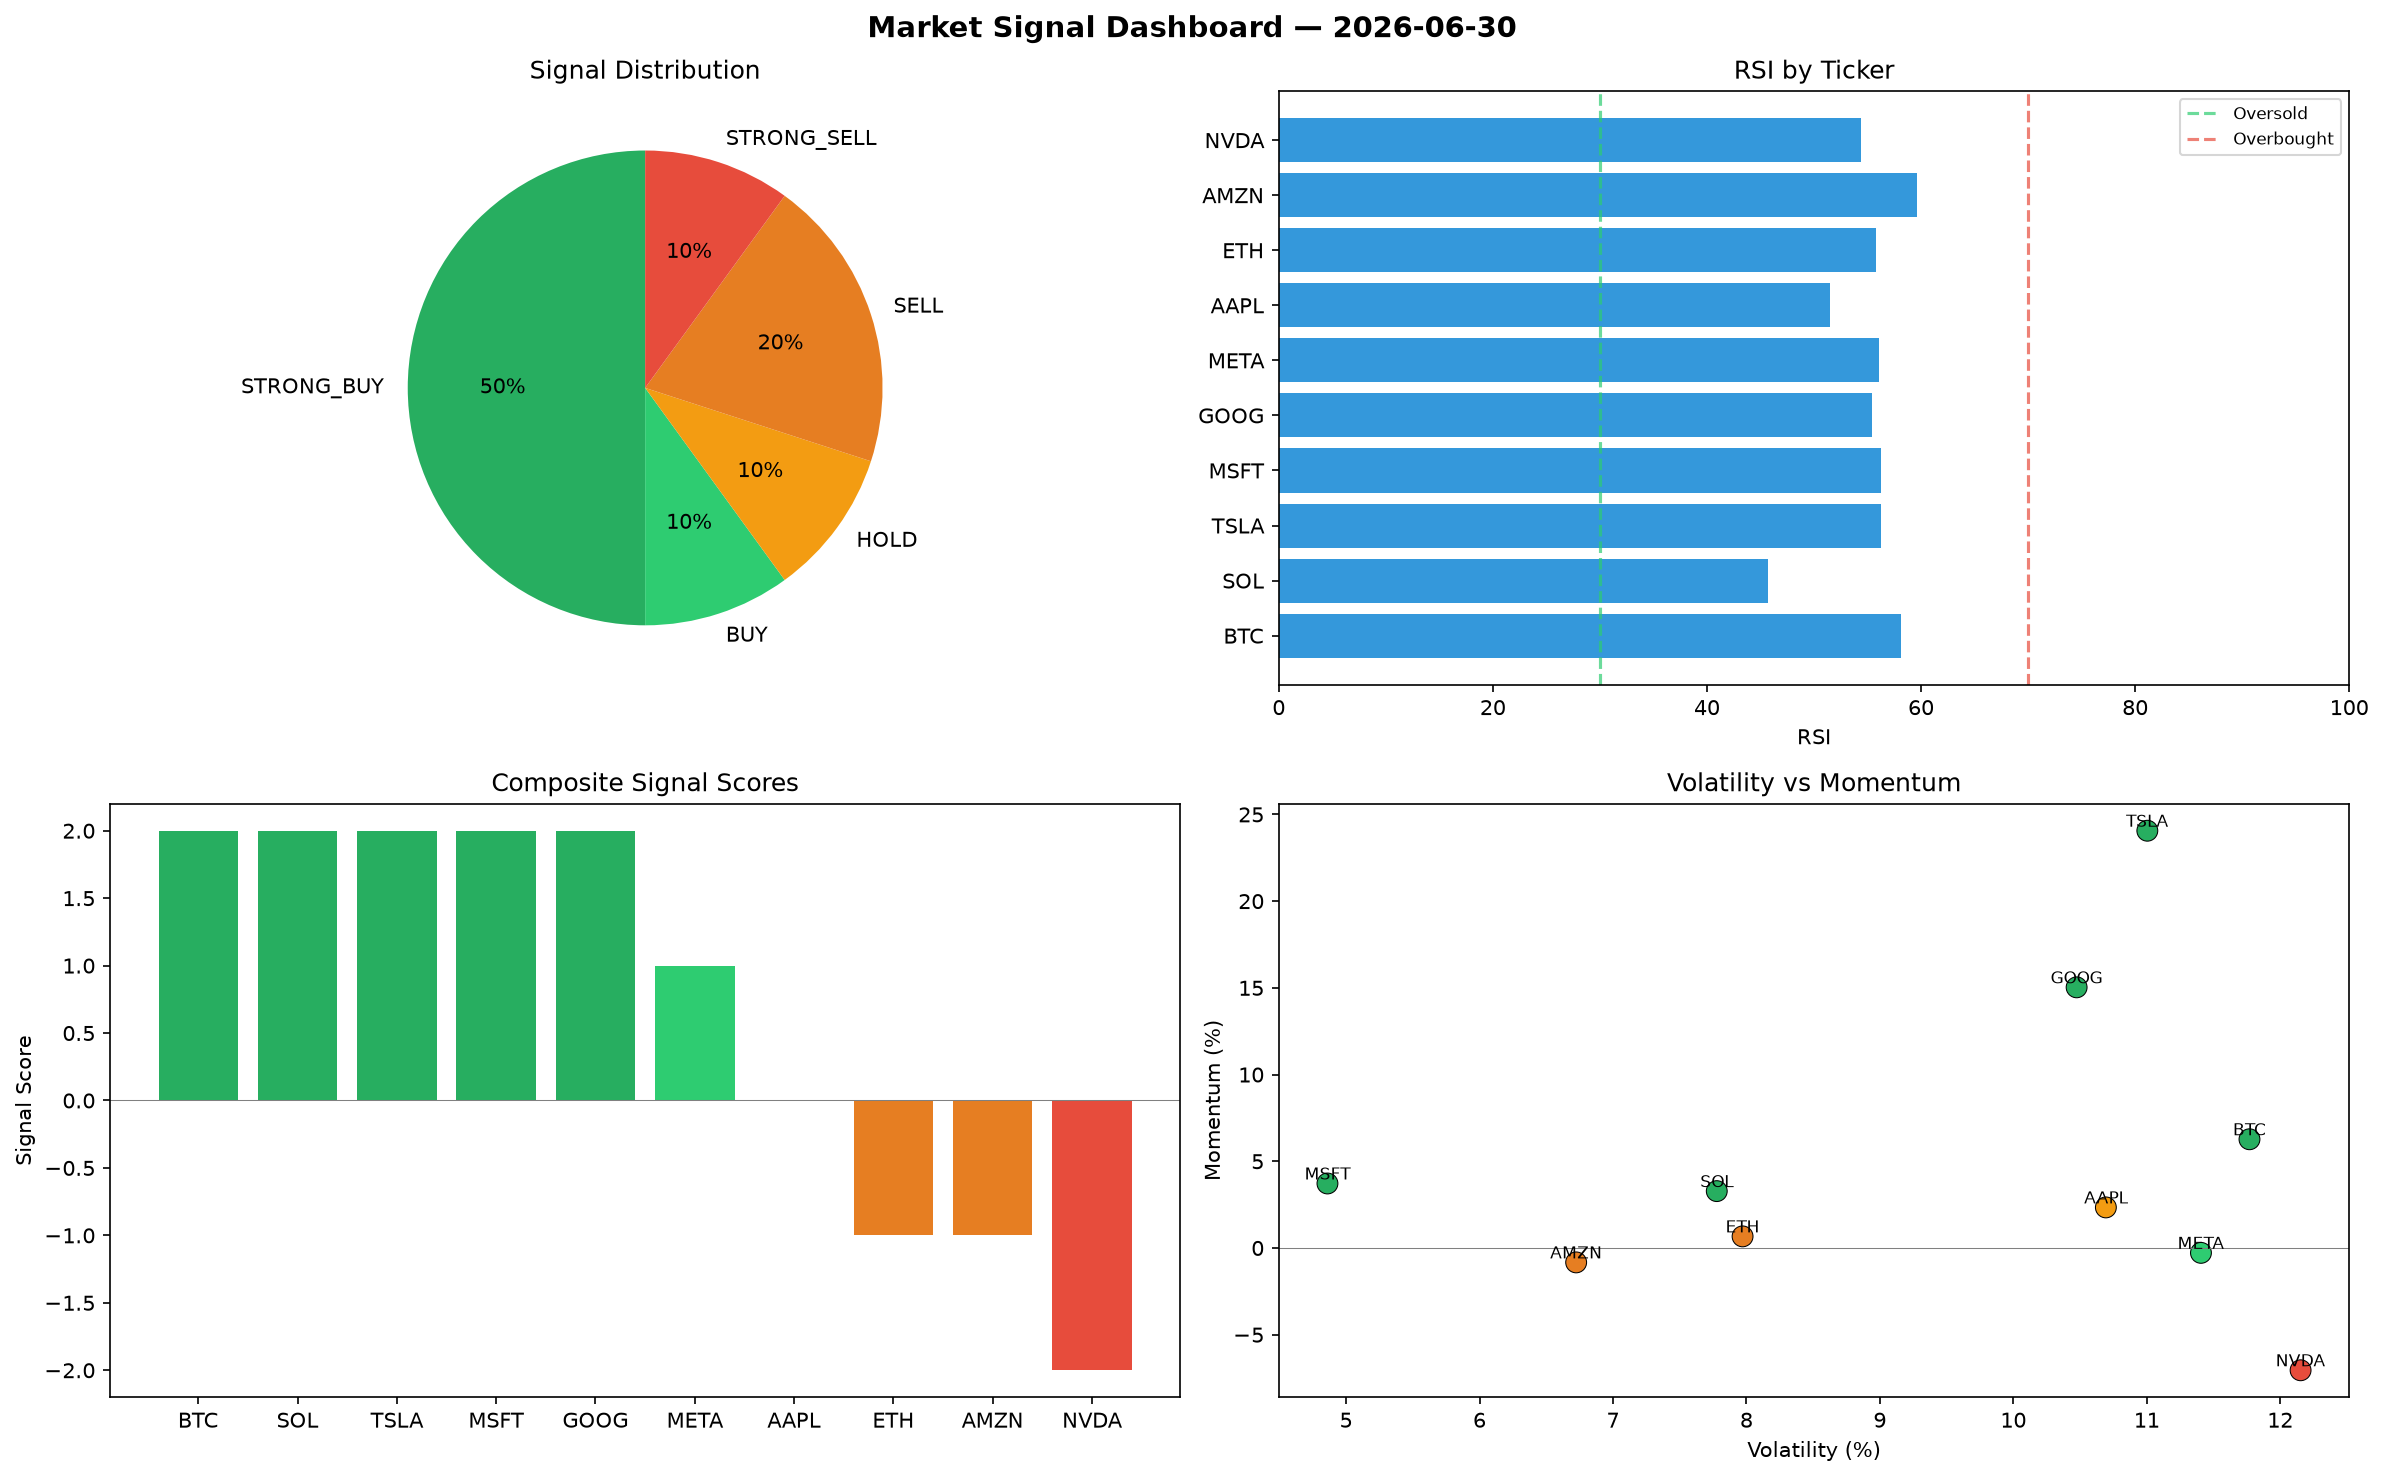
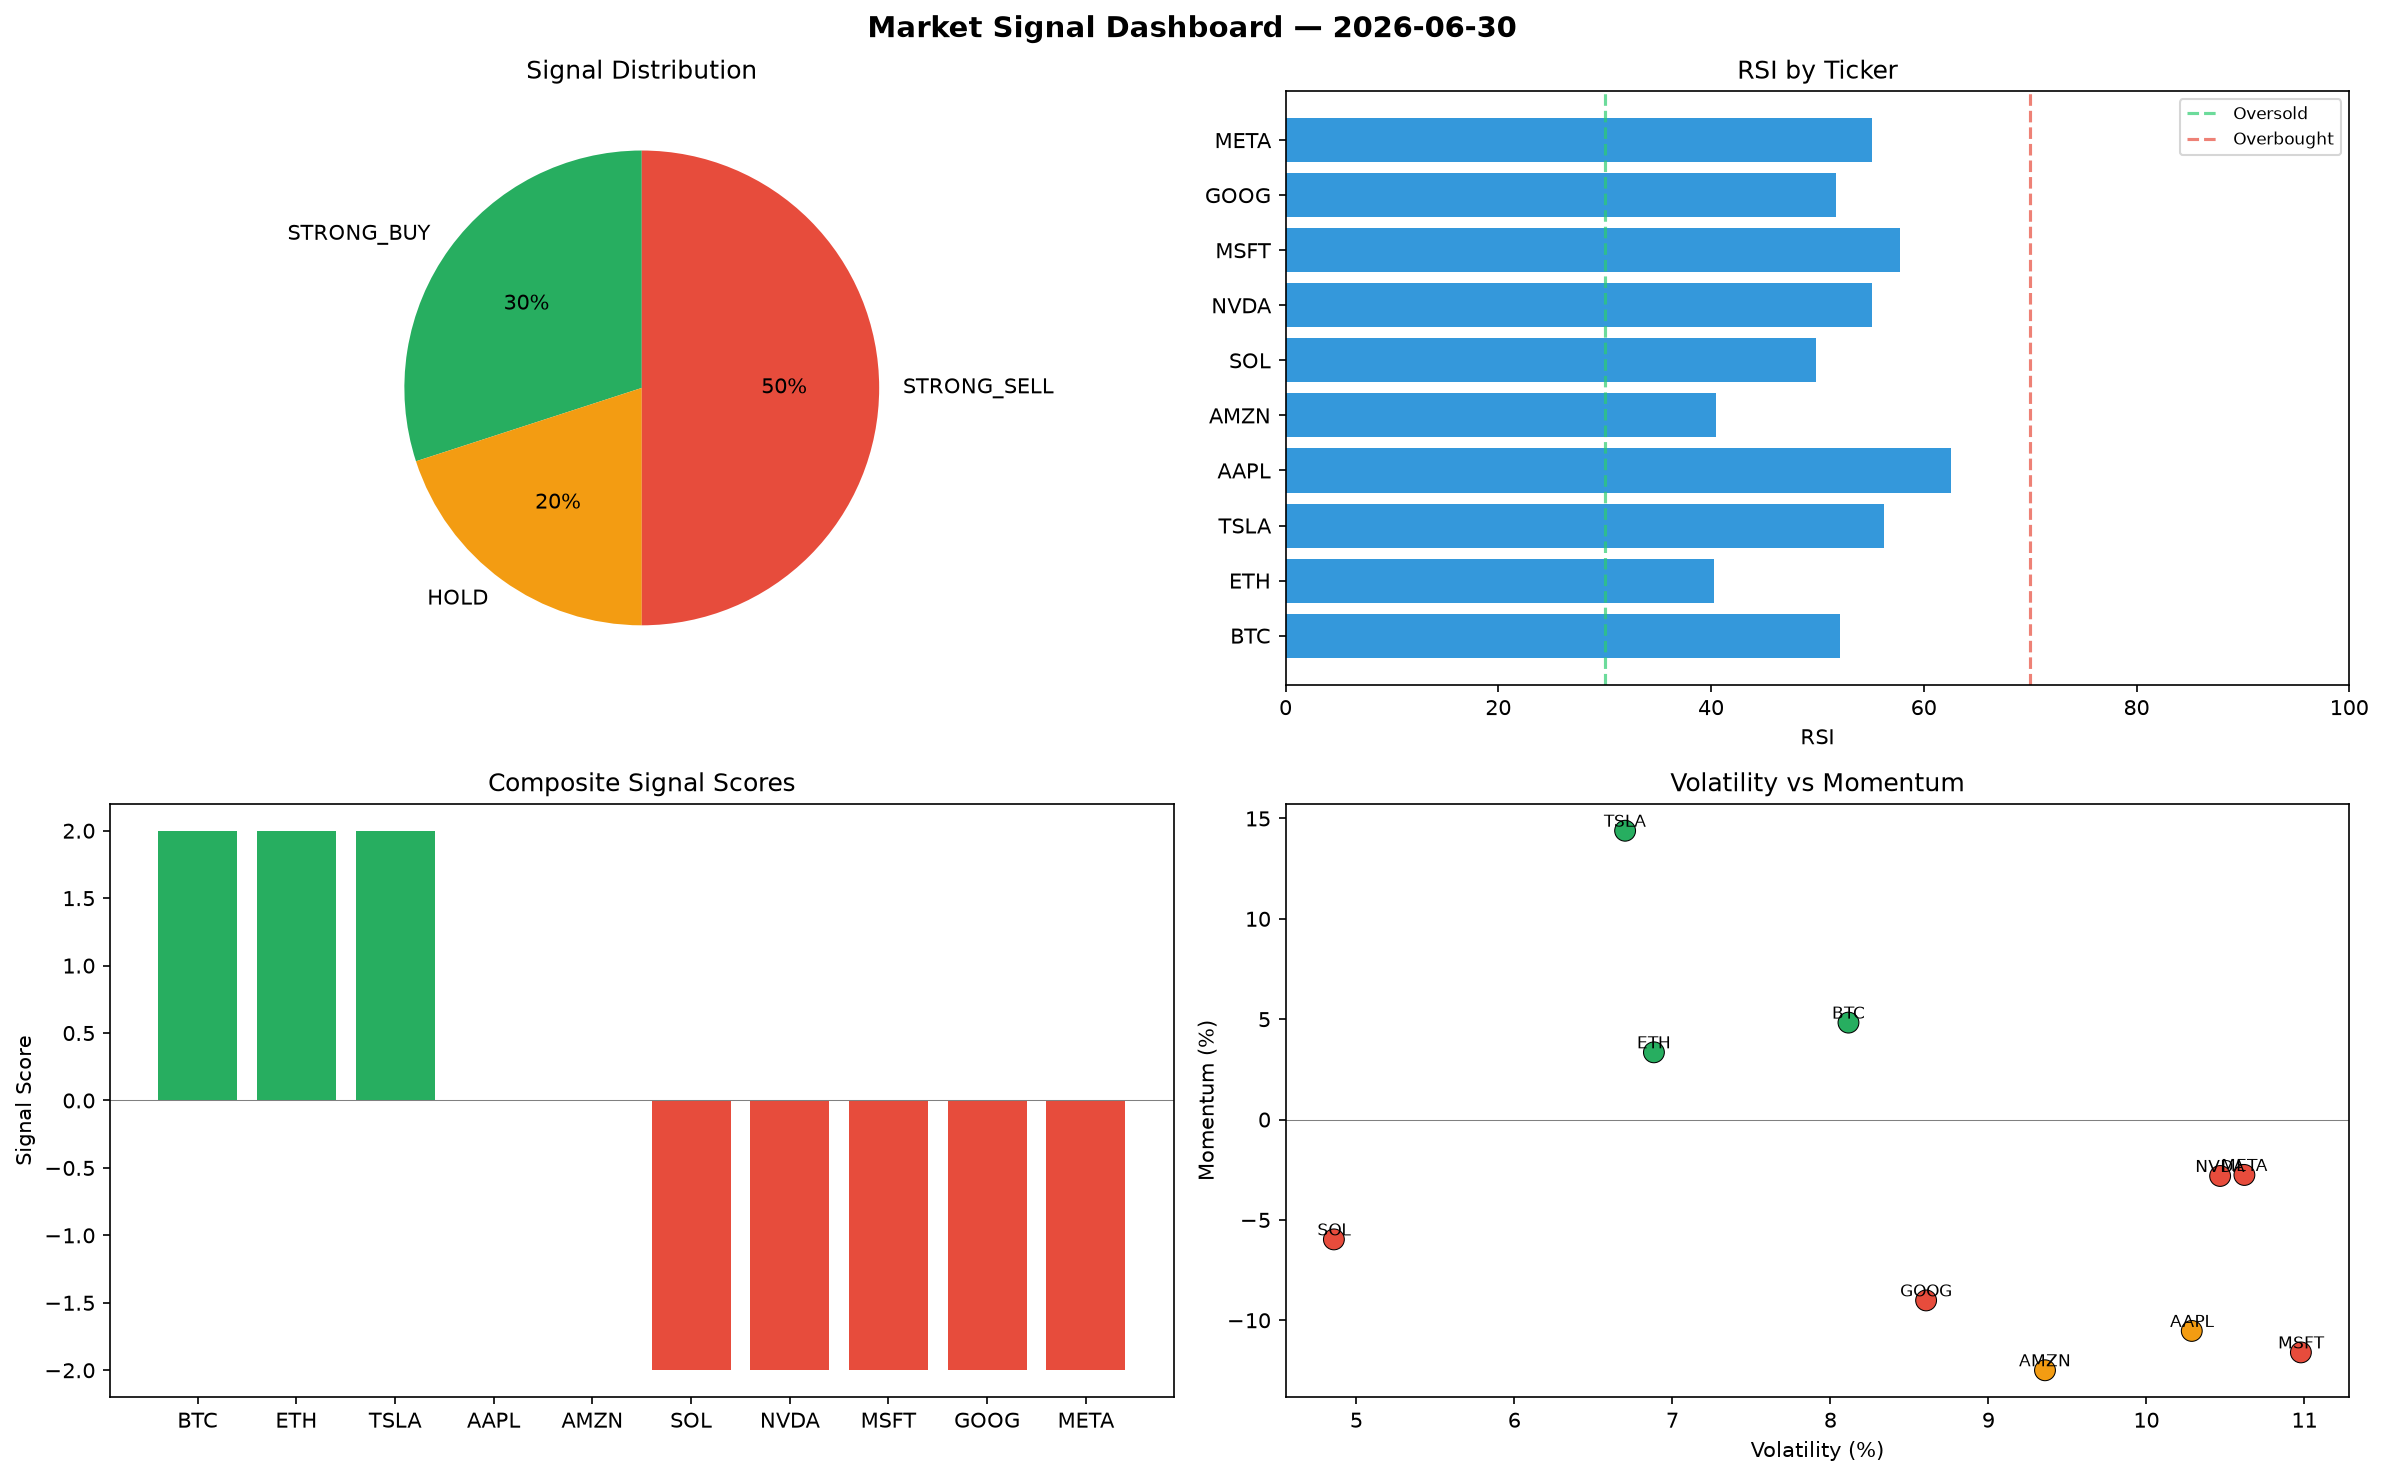
automated-bots: market signals 2026-06-30T11:25

diff --git a/logs/2026-06-30.md b/logs/2026-06-30.md
@@ -1,6 +1,6 @@
 # Market Signal Report — 2026-06-30
 
-**Run ID:** `74f3709daa` | **Buy:** 6 | **Sell:** 3 | **Hold:** 1
+**Run ID:** `1437e63bfa` | **Buy:** 3 | **Sell:** 5 | **Hold:** 2
 
 ![Dashboard](2026-06-30_dashboard.png)
 
@@ -8,28 +8,28 @@
 
 | Ticker | Price | Signal | Score | RSI | Momentum | Confidence |
 |--------|-------|--------|-------|-----|----------|------------|
-| BTC | $3089.19 | **STRONG_BUY** | 2 | 58.14 | 0.0627 | 0.5 |
-| SOL | $856.01 | **STRONG_BUY** | 2 | 45.74 | 0.0328 | 0.5 |
-| TSLA | $2465.36 | **STRONG_BUY** | 2 | 56.27 | 0.2406 | 0.5 |
-| MSFT | $316.76 | **STRONG_BUY** | 2 | 56.24 | 0.0372 | 0.5 |
-| GOOG | $2426.71 | **STRONG_BUY** | 2 | 55.4 | 0.1503 | 0.5 |
-| META | $4726.02 | **BUY** | 1 | 56.03 | -0.0028 | 0.25 |
-| AAPL | $118.5 | **HOLD** | 0 | 51.45 | 0.0234 | 0.0 |
-| ETH | $1326.71 | **SELL** | -1 | 55.75 | 0.0067 | 0.25 |
-| AMZN | $4134.62 | **SELL** | -1 | 59.61 | -0.0083 | 0.25 |
-| NVDA | $2242.13 | **STRONG_SELL** | -2 | 54.39 | -0.0705 | 0.5 |
+| BTC | $318.91 | **STRONG_BUY** | 2 | 52.1 | 0.0483 | 0.5 |
+| ETH | $2324.13 | **STRONG_BUY** | 2 | 40.27 | 0.0335 | 0.5 |
+| TSLA | $1415.12 | **STRONG_BUY** | 2 | 56.28 | 0.1439 | 0.5 |
+| AAPL | $174.82 | **HOLD** | 0 | 62.57 | -0.1053 | 0.0 |
+| AMZN | $2584.3 | **HOLD** | 0 | 40.51 | -0.1249 | 0.0 |
+| SOL | $4068.35 | **STRONG_SELL** | -2 | 49.86 | -0.0597 | 0.5 |
+| NVDA | $2917.76 | **STRONG_SELL** | -2 | 55.16 | -0.0281 | 0.5 |
+| MSFT | $3047.53 | **STRONG_SELL** | -2 | 57.75 | -0.116 | 0.5 |
+| GOOG | $521.63 | **STRONG_SELL** | -2 | 51.79 | -0.0901 | 0.5 |
+| META | $3216.75 | **STRONG_SELL** | -2 | 55.17 | -0.0276 | 0.5 |
 
 ## Delta vs Yesterday
 
 | Ticker | Today | Yesterday | Price Change | Signal Changed |
 |--------|-------|-----------|-------------|----------------|
-| BTC | STRONG_BUY | STRONG_BUY | 📈 47.84% | — |
-| SOL | STRONG_BUY | STRONG_BUY | 📉 -57.51% | — |
-| TSLA | STRONG_BUY | STRONG_BUY | 📉 -21.29% | — |
-| MSFT | STRONG_BUY | BUY | 📉 -92.12% | ⚠ YES |
-| GOOG | STRONG_BUY | STRONG_SELL | 📉 -46.74% | ⚠ YES |
-| META | BUY | STRONG_SELL | 📈 63.9% | ⚠ YES |
-| AAPL | HOLD | HOLD | 📉 -97.22% | — |
-| ETH | SELL | STRONG_BUY | 📉 -49.47% | ⚠ YES |
-| AMZN | SELL | HOLD | 📈 179.65% | ⚠ YES |
-| NVDA | STRONG_SELL | STRONG_BUY | 📉 -51.01% | ⚠ YES |
+| BTC | STRONG_BUY | STRONG_BUY | 📉 -84.74% | — |
+| ETH | STRONG_BUY | STRONG_BUY | 📉 -11.48% | — |
+| TSLA | STRONG_BUY | STRONG_BUY | 📉 -54.82% | — |
+| AAPL | HOLD | HOLD | 📉 -95.9% | — |
+| AMZN | HOLD | HOLD | 📈 74.79% | — |
+| SOL | STRONG_SELL | STRONG_BUY | 📈 101.92% | ⚠ YES |
+| NVDA | STRONG_SELL | STRONG_BUY | 📉 -36.25% | ⚠ YES |
+| MSFT | STRONG_SELL | BUY | 📉 -24.22% | ⚠ YES |
+| GOOG | STRONG_SELL | STRONG_SELL | 📉 -88.55% | — |
+| META | STRONG_SELL | STRONG_SELL | 📈 11.56% | — |
